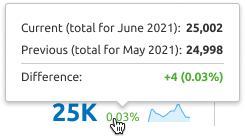
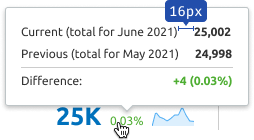
[Tooltip] Add info, update illustrations, [Intergalactic] Add website description and keywords

diff --git a/website/client/pages/Home.js b/website/client/pages/Home.js
@@ -476,6 +476,14 @@ function Home() {
     <>
       <Helmet>
         <title>Intergalactic – Design System</title>
+        <meta
+          name="description"
+          content="Intergalactic is a constantly developing design system of UI components, guidelines and UX patterns. With all these tools you can build your own product."
+        ></meta>
+        <meta
+          name="keywords"
+          content="Semrush design system, design system, design-system, дизайн-система, дизайн-система Semrush, дизайн система"
+        ></meta>
       </Helmet>
       {loading ? (
         <LoadingPage />

diff --git a/website/docs/components/tooltip/tooltip.md b/website/docs/components/tooltip/tooltip.md
@@ -16,7 +16,7 @@ Differences from [Dropdown](/components/dropdown/):
 - It has an arrow that points to the trigger.
 - It contains only hints and additional information without controls.
 
-@## Component consists of
+@## Component composition
 
 - container;
 - content;
@@ -62,13 +62,13 @@ The tooltip has themes to use on a dark background and for error messages. In bo
 
 > 💡 In [3.1.0 version](http://i.semrush.com/components/tooltip/#Changelog), you can set your own theme and change background color to custom.
 
-@## Sizes and indents
+@## Sizes, paddings and margins
 
 ### Sizes
 
 The basic tooltip has a maximum width — `max-width: 250px`. In the advanced version of the tooltip, you can set a different width if necessary.
 
-### Indents
+### Paddings and margins
 
 **Content**. The content area of the component has defaul padding.
 
@@ -87,6 +87,14 @@ Image area is 256px х 132px.
 **Arrow**. Arrow can be placed either in the middle of the component or next to any angle.
 
 ![arrow-paddings](static/tooltip-arrow-paddings.png)
+
+### Margins inside the data
+
+To make tooltip data more readable we have specific rules for margins between the labels and values.
+
+See detailed examples for tooltip margins in [Data visualization](/data-display/data-visualization/#ac9830) and [Summary](/patterns/summary/#a16f52).
+
+![tooltip example](static/tooltip-margins.png)
 
 @## Placement
 

diff --git a/website/docs/data-display/data-visualization/data-visualization.md b/website/docs/data-display/data-visualization/data-visualization.md
@@ -187,9 +187,9 @@ The tooltip appears next to the cursor. It does not overlap the guide and active
 - The data tooltip shall always be displayed relative to the point with an 8px margin. The inner tooltip padding is 12px.
 - The color for the additional vertical line that appears on line charts when hovering is `$stone`. The background color that appears on charts with a higher bar chart color density is `$mist` with 20% transparency.
 
-![tooltip paddings](static/tooltip-padding.png)
+![tooltip paddings](static/tooltip-paddings.png)
 
-![tooltip paddings & margins](static/tooltip-paddings.png)
+![tooltip paddings & margins](static/tooltip-margins.png)
 
 |                          | Appearance                               | Styles                                                                                                                                                                                                                                    |
 | ------------------------ | ---------------------------------------- | ----------------------------------------------------------------------------------------------------------------------------------------------------------------------------------------------------------------------------------------- |

diff --git a/website/docs/components/carousel/carousel.md b/website/docs/components/carousel/carousel.md
@@ -19,7 +19,7 @@ We use it for sequential viewing of single-level information within one componen
 
 Use the carousel as an additional highlight of important website features and information, never as the only path to important content.
 
-### Component consists of
+### Component composition
 
 - Navigation buttons
 - Slides number indicator (optional)
@@ -123,7 +123,7 @@ Slider controls must perform two functions: indicate the current slide among the
 
 @## Auto-play
 
-_Remember, it's a UX dream that auto-play through the frames in a carousel leads people through the information 🦄_
+> Remember, it's a UX dream that auto-play leads people through the carousel frames 🦄
 
 **Do not auto-play slides if:**
 

diff --git a/website/docs/components/notice-bubble/notice-bubble.md b/website/docs/components/notice-bubble/notice-bubble.md
@@ -28,7 +28,7 @@ Let's see the differencies with [Notice](/components/notice/).
 - Displaying execution of a process using spinners or a progress bar. The exception is the no-network condition. If you need to display the process, use the [progress bar](/components/progress-bar/).
 - If there are any visible instant interface changes. For example, adding a tag to an item — the tag appears, adding an item to favorites — changing the icon color, adding an item to a table/list.
 
-@## Component consists of
+@## Component composition
 
 - Text (we recommend placing the message in 2 lines, maximum — 4 lines).
 - Icon that closes the alert (using the `CloseXS` icon).

diff --git a/website/docs/components/drag-and-drop/drag-and-drop.md b/website/docs/components/drag-and-drop/drag-and-drop.md
@@ -15,7 +15,7 @@ The component is meant for imitating physical dragging of objects, so the follow
 - It should be obvious, which elements or parts of the interface you may drag and where.
 - It should be visually shown during dragging, that the element is dragged and where it can be dragged.
 
-### Component consists of
+### Component composition
 
 `DroppableContex` is a container wrapping the required area for drag & drop operation.
 `Droppable` is the interface area, where the element can be dropped.

diff --git a/website/docs/components/side-panel/side-panel.md b/website/docs/components/side-panel/side-panel.md
@@ -32,7 +32,7 @@ Use this component when it is simultaneously needed:
 - Charts inside the report, which can be clicked on to see additional information.
 - On small screens where we can use the SidePanel moving from below, other interface controls can serve as a trigger.
 
-@## Component consists of
+@## Component composition
 
 - container;
 - content;

diff --git a/website/docs/components/modal/modal.md b/website/docs/components/modal/modal.md
@@ -32,7 +32,7 @@ Do not open windows without prior action by the user. **Limit modal windows are 
 
 > 💡 For general recommendations for content styles in modal windows see [Modal content styles](/patterns/modal-content/).
 
-@## Component consists of
+@## Component composition
 
 The modal window consists of:
 

diff --git a/website/docs/components/scroll-area/scroll-area.md b/website/docs/components/scroll-area/scroll-area.md
@@ -10,7 +10,7 @@ tabName: Guide
 
 @## Appearance
 
-### Component consists of
+### Component composition
 
 - Container with content (`ScrollArea.Container`);
 - Scroll indicator (`ScrollArea.Bar`).

diff --git a/website/docs/components/pagination/pagination.md b/website/docs/components/pagination/pagination.md
@@ -12,7 +12,7 @@ tabName: Guide
 
 @## Appearance
 
-### Component consists of
+### Component composition
 
 - `primary` и `secondary` buttons;
 - [input](/components/input/);

diff --git a/website/docs/components/tag/tag.md b/website/docs/components/tag/tag.md
@@ -14,7 +14,7 @@ It is usually set by the system or by the user himself.
 
 @## Appearance
 
-### Component consists of
+### Component composition
 
 - container;
 - text;

diff --git a/website/docs/components/tab-line/tab-line.md b/website/docs/components/tab-line/tab-line.md
@@ -14,7 +14,7 @@ tabName: Guide
 
 @## Appearance
 
-Component consists of:
+Component composition:
 
 - container;
 - text;
